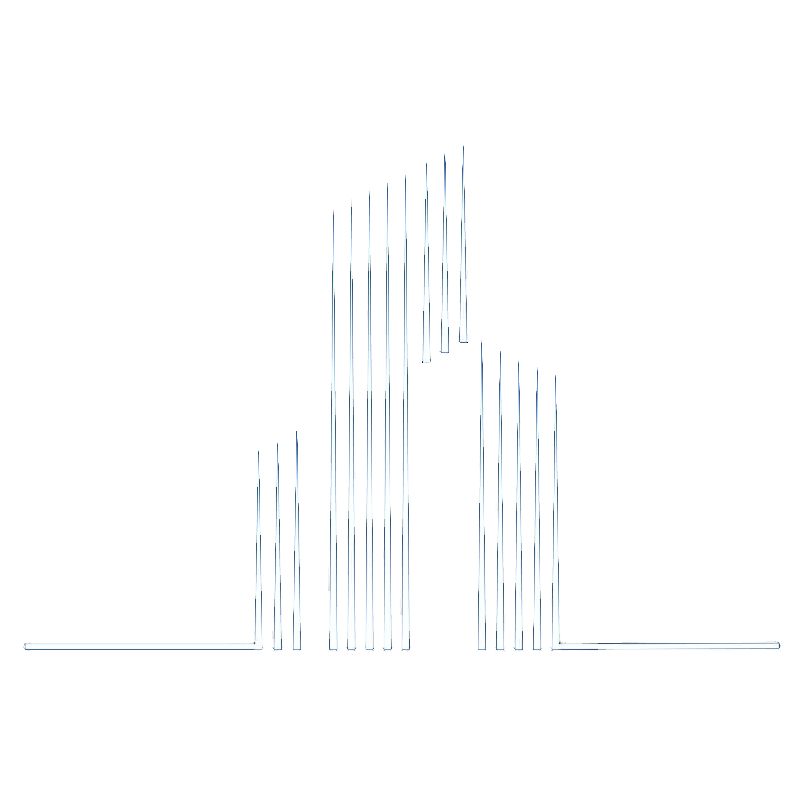
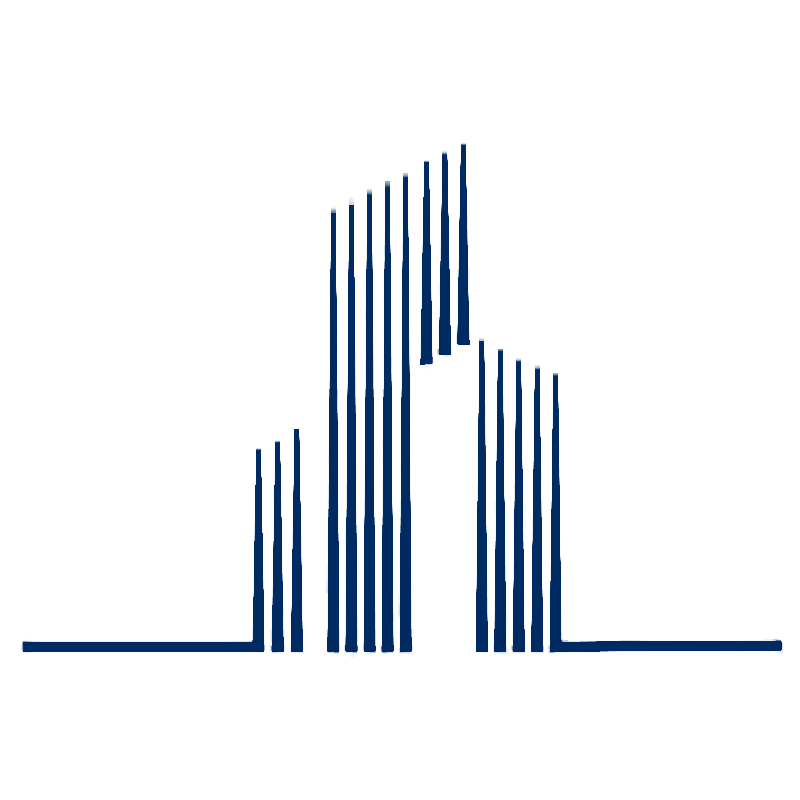
fix: melhora contraste do ícone Cheron & Camargo e corrige seletor de login
* chore: adiciona agente dev-completo com todas as ferramentas liberadas

Agente de desenvolvimento com acesso total a Bash, Edit, Write, WebFetch,
Agent etc. (campo tools omitido), reaproveitando o contexto do projeto
Gravitas para uso quando for necessária mais autonomia que o gravitas-dev
restrito permite.

* chore: renomeia agente dev-completo para programador-gravitas

* fix: melhora contraste do ícone da Cheron & Camargo e corrige seletor de login

O ícone estava em traço branco (pensado pra fundo escuro) sendo usado em
telas de fundo branco, ficando quase invisível. Recolore pra navy da marca
e engrossa os traços finos pra manter legibilidade em tamanho pequeno.
Também adiciona esse ícone próprio no seletor de sistemas do superadmin
(gravitas.net.br/login/), que antes mostrava o mesmo ícone genérico
verde compartilhado com o marco_urbano.

---------

Changed region(s): [[0.0312, 0.1875, 0.5938, 0.8125], [0.5938, 0.4375, 1.0, 0.8125]]

diff --git a/login/index.php b/login/index.php
@@ -207,7 +207,7 @@ if (!empty($_SESSION['sa_ok'])) {
   .sistema-col{}
   .sistema-header{display:flex;align-items:center;gap:10px;margin-bottom:12px;
                   padding-bottom:10px;border-bottom:2px solid var(--line)}
-  .sistema-header svg{width:28px;height:28px}
+  .sistema-header svg,.sistema-header img{width:28px;height:28px;object-fit:contain}
   .sistema-header-txt b{display:block;font-size:13px;font-weight:800;letter-spacing:1px;color:var(--navy)}
   .sistema-header-txt small{font-size:11px;color:var(--muted);font-weight:500}
 
@@ -290,6 +290,8 @@ if (!empty($_SESSION['sa_ok'])) {
               <path d="M 50 50 L 67.4 29.3 L 55.5 53.5 Z" fill="#C9A227"/>
               <circle cx="50" cy="50" r="6" fill="#C9A227"/>
             </svg>
+            <?php elseif ($cfg['id'] === 'cheron_camargo'): ?>
+            <img src="/CHERONCAMARGO/painel/assets/img/icon-cheron-camargo.png" alt="" aria-hidden="true">
             <?php else: ?>
             <svg viewBox="0 0 100 100" xmlns="http://www.w3.org/2000/svg" aria-hidden="true">
               <rect x="4" y="4" width="92" height="92" rx="26" fill="none" stroke="#3CB86A" stroke-width="3"/>